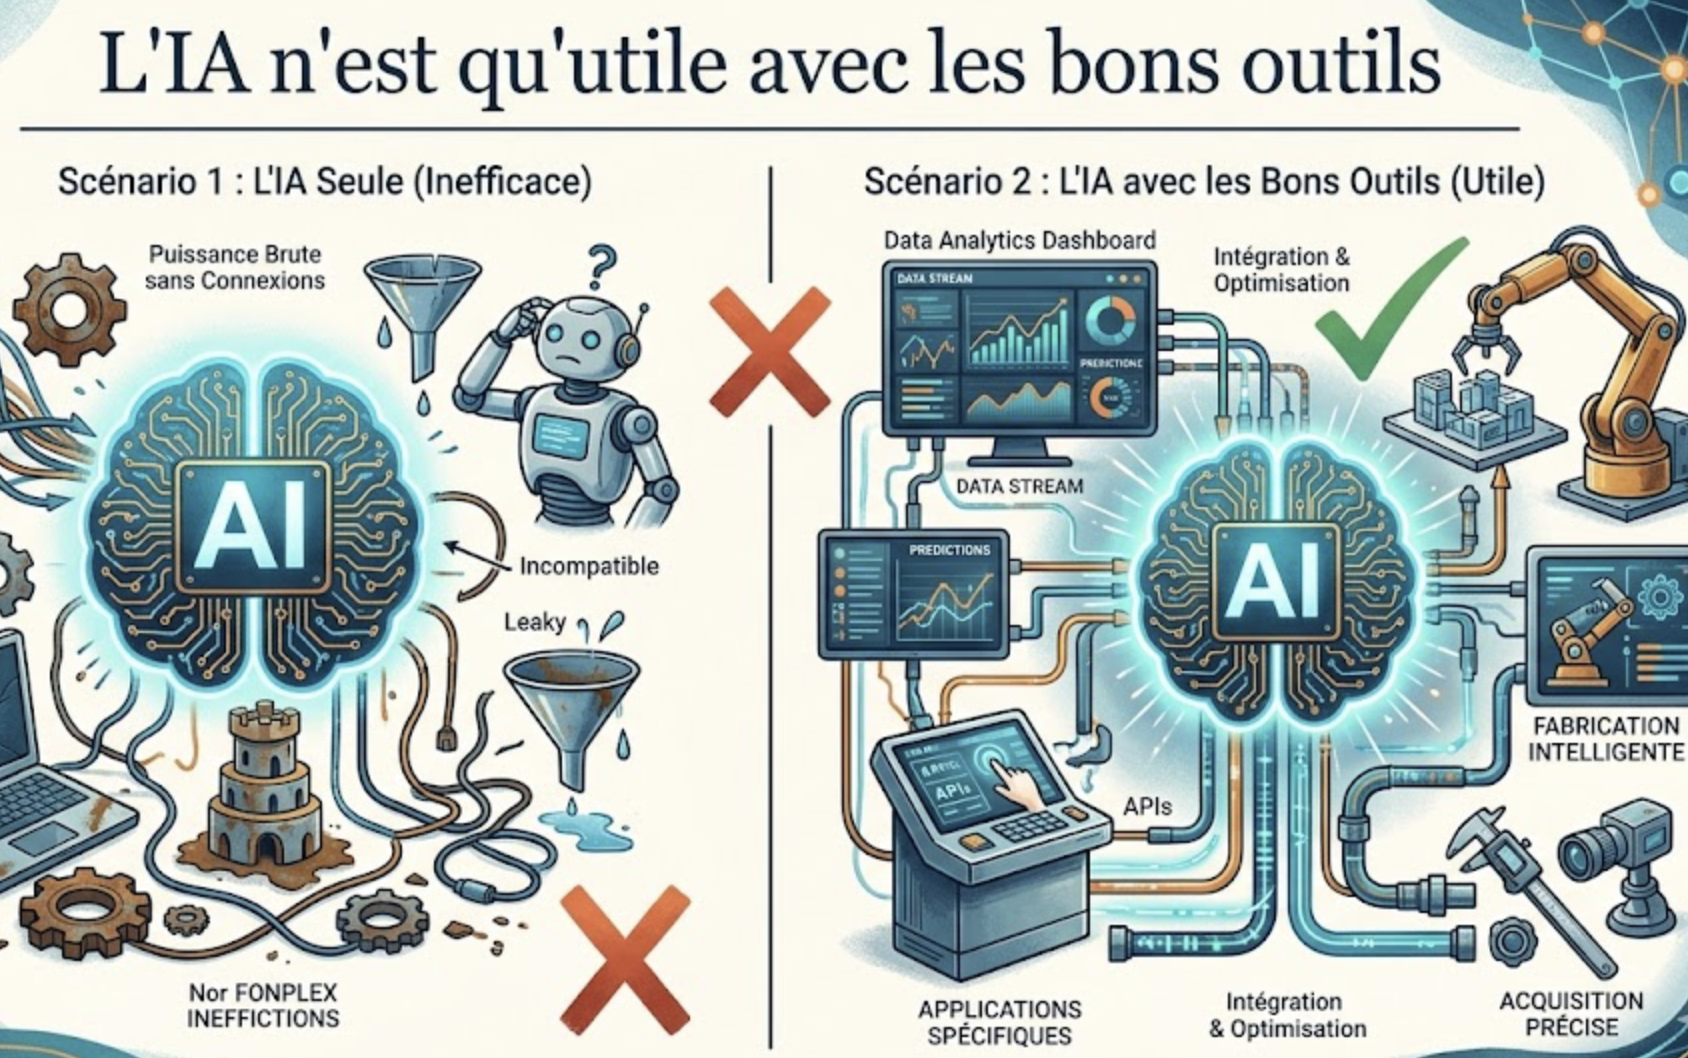
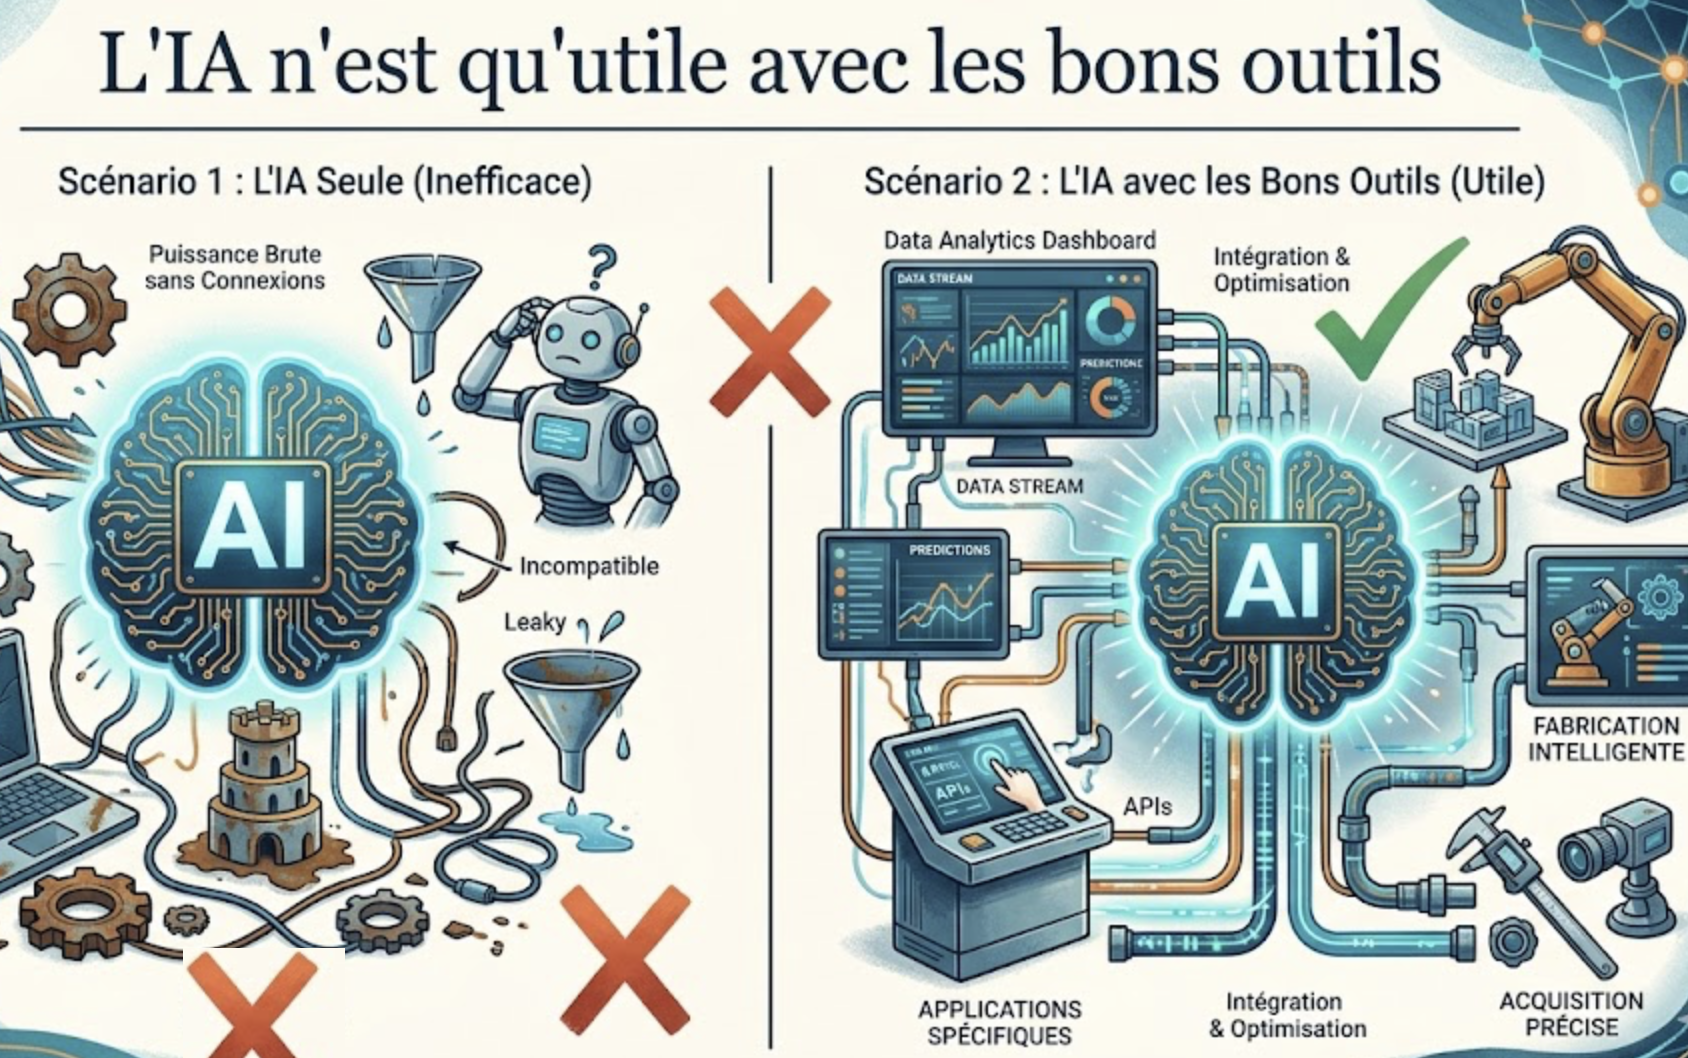
update

Changed region(s): [[0.0924, 0.8733, 0.2156, 1.0]]

diff --git a/2026/quebec/quebec2026.md b/2026/quebec/quebec2026.md
@@ -301,7 +301,7 @@ X: [@lemire](https://x.com/lemire) · GitHub: [github.com/lemire](https://github
 |---------------------------------------------------|-------------------------|--------------------|
 | Total levé par Element AI                     | **~340 M$ CA**         | 2017 – 2019       |
 | **Total sources publiques**                       | **160 – 175 M$ CA**    |
-| Venter à ServiceNow (USA) | 230 millions US |
+| Vente à ServiceNow (USA) | 230 millions US |
 
 ---
 
